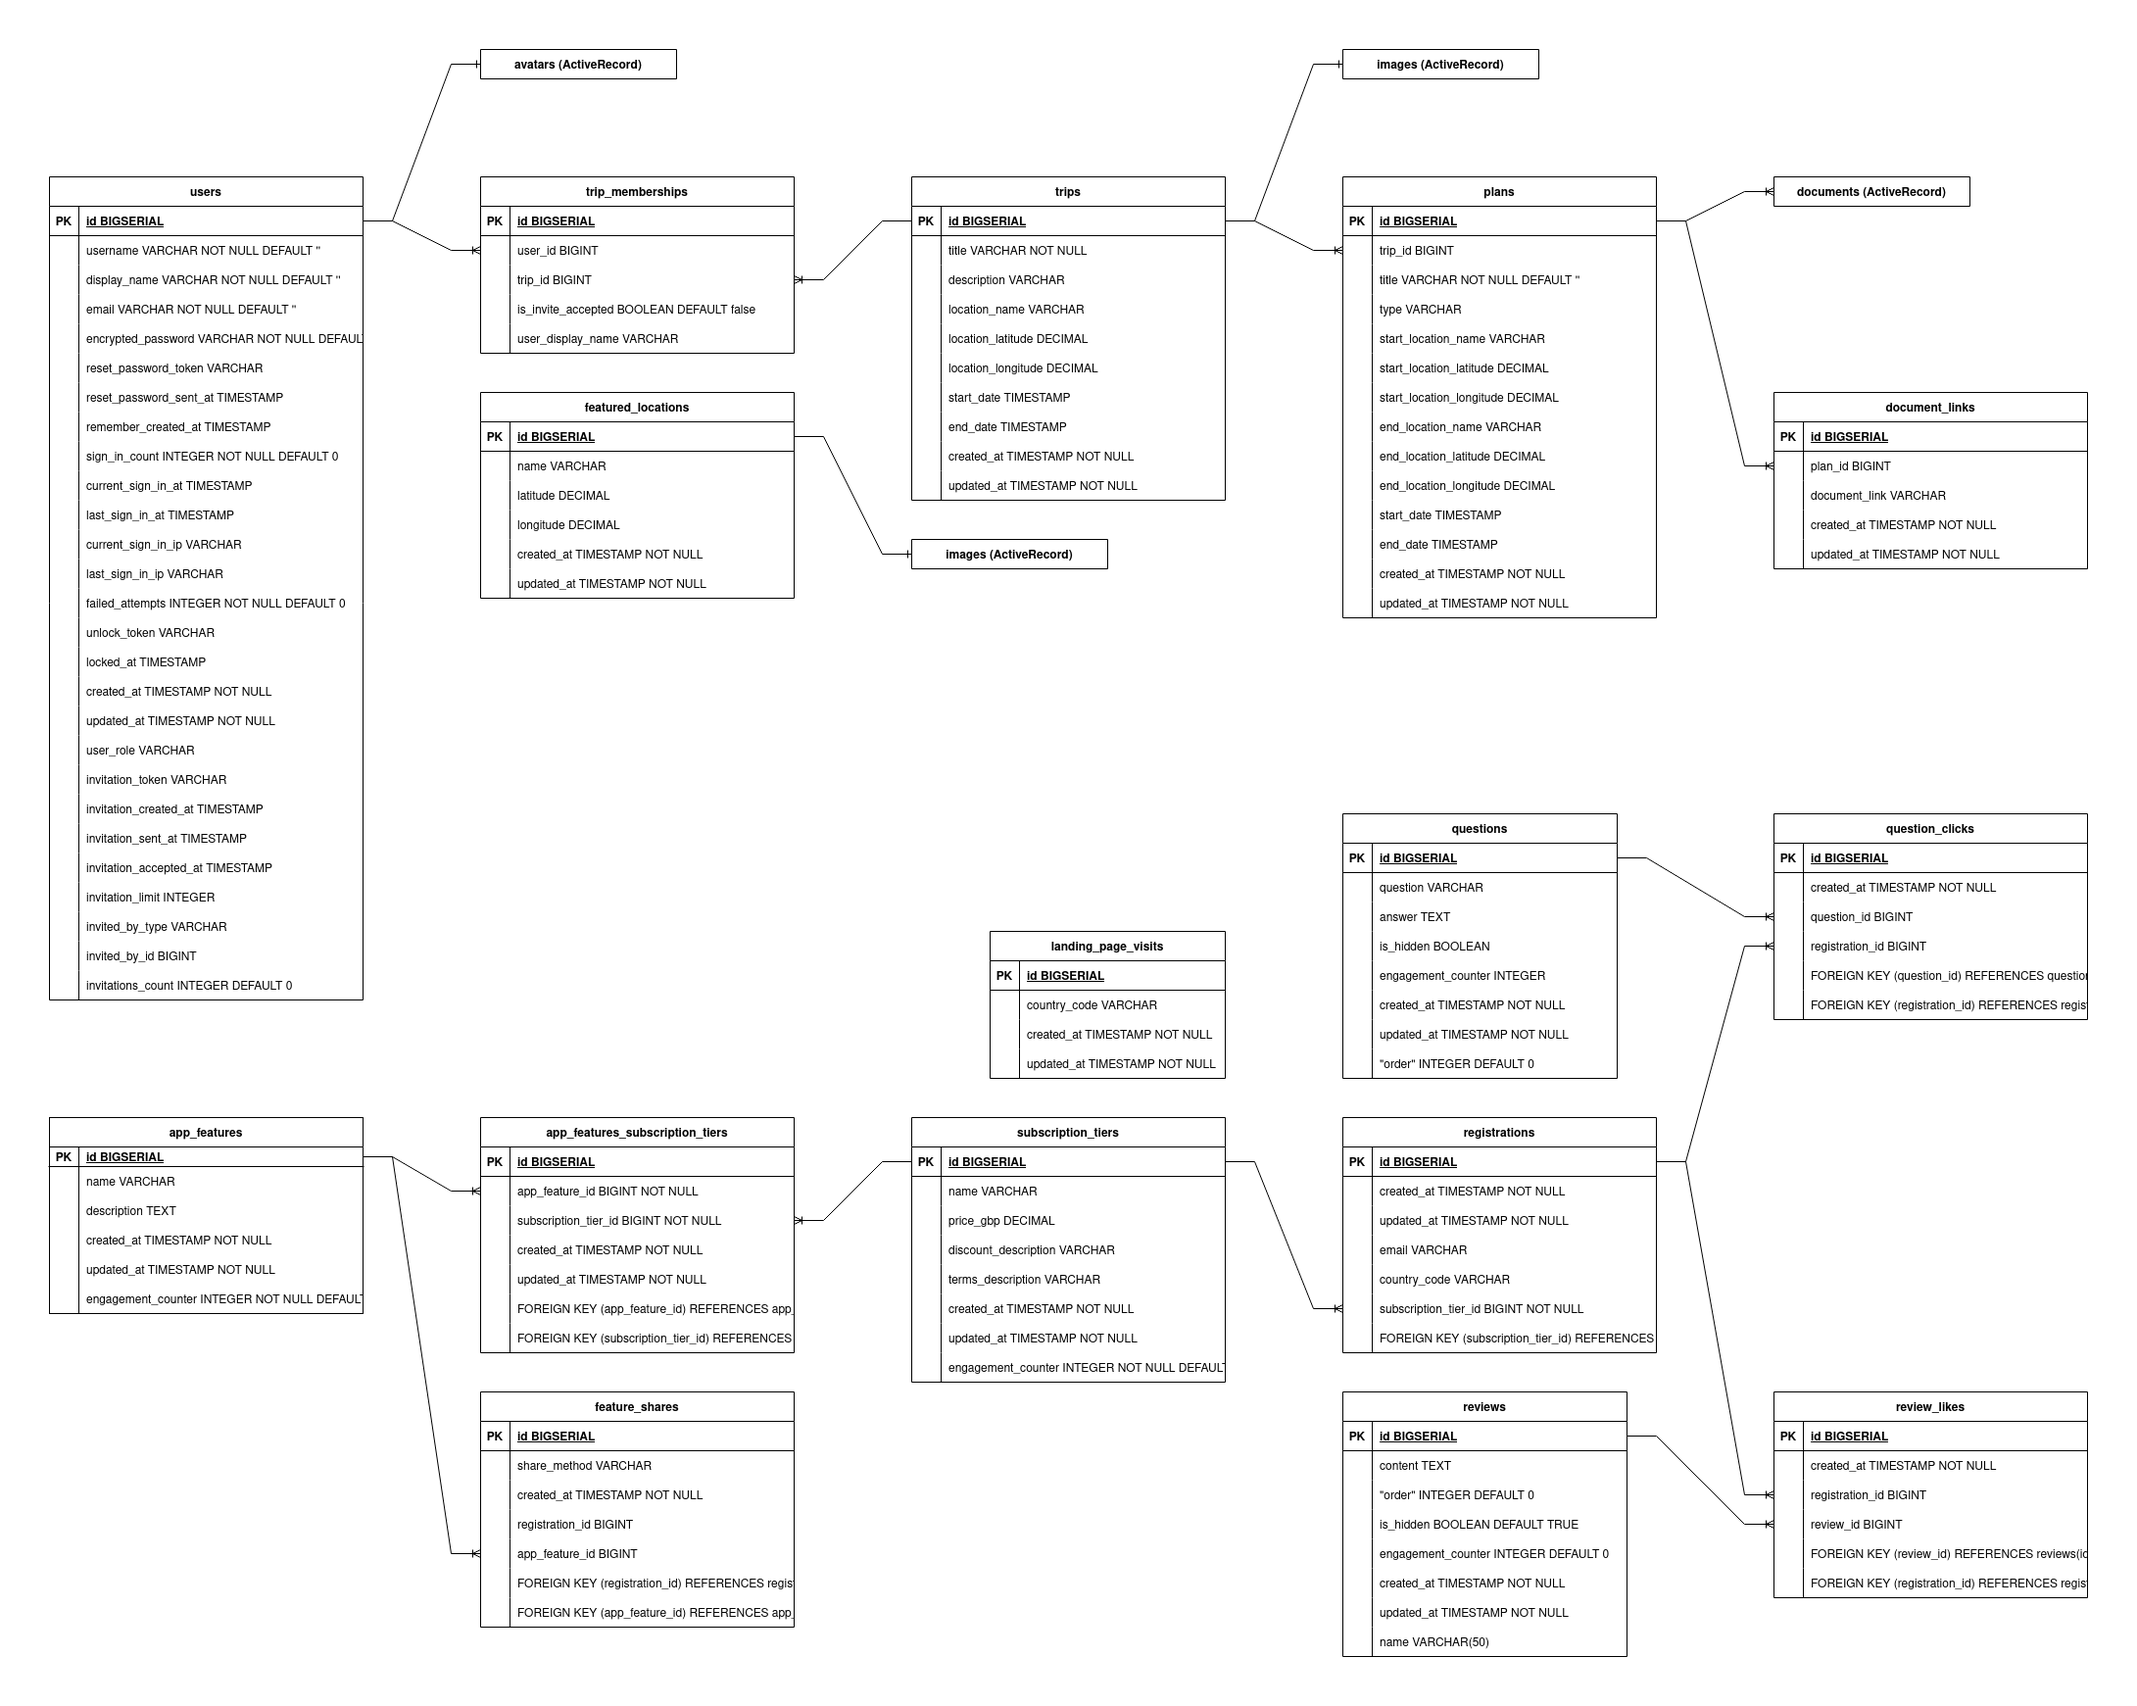
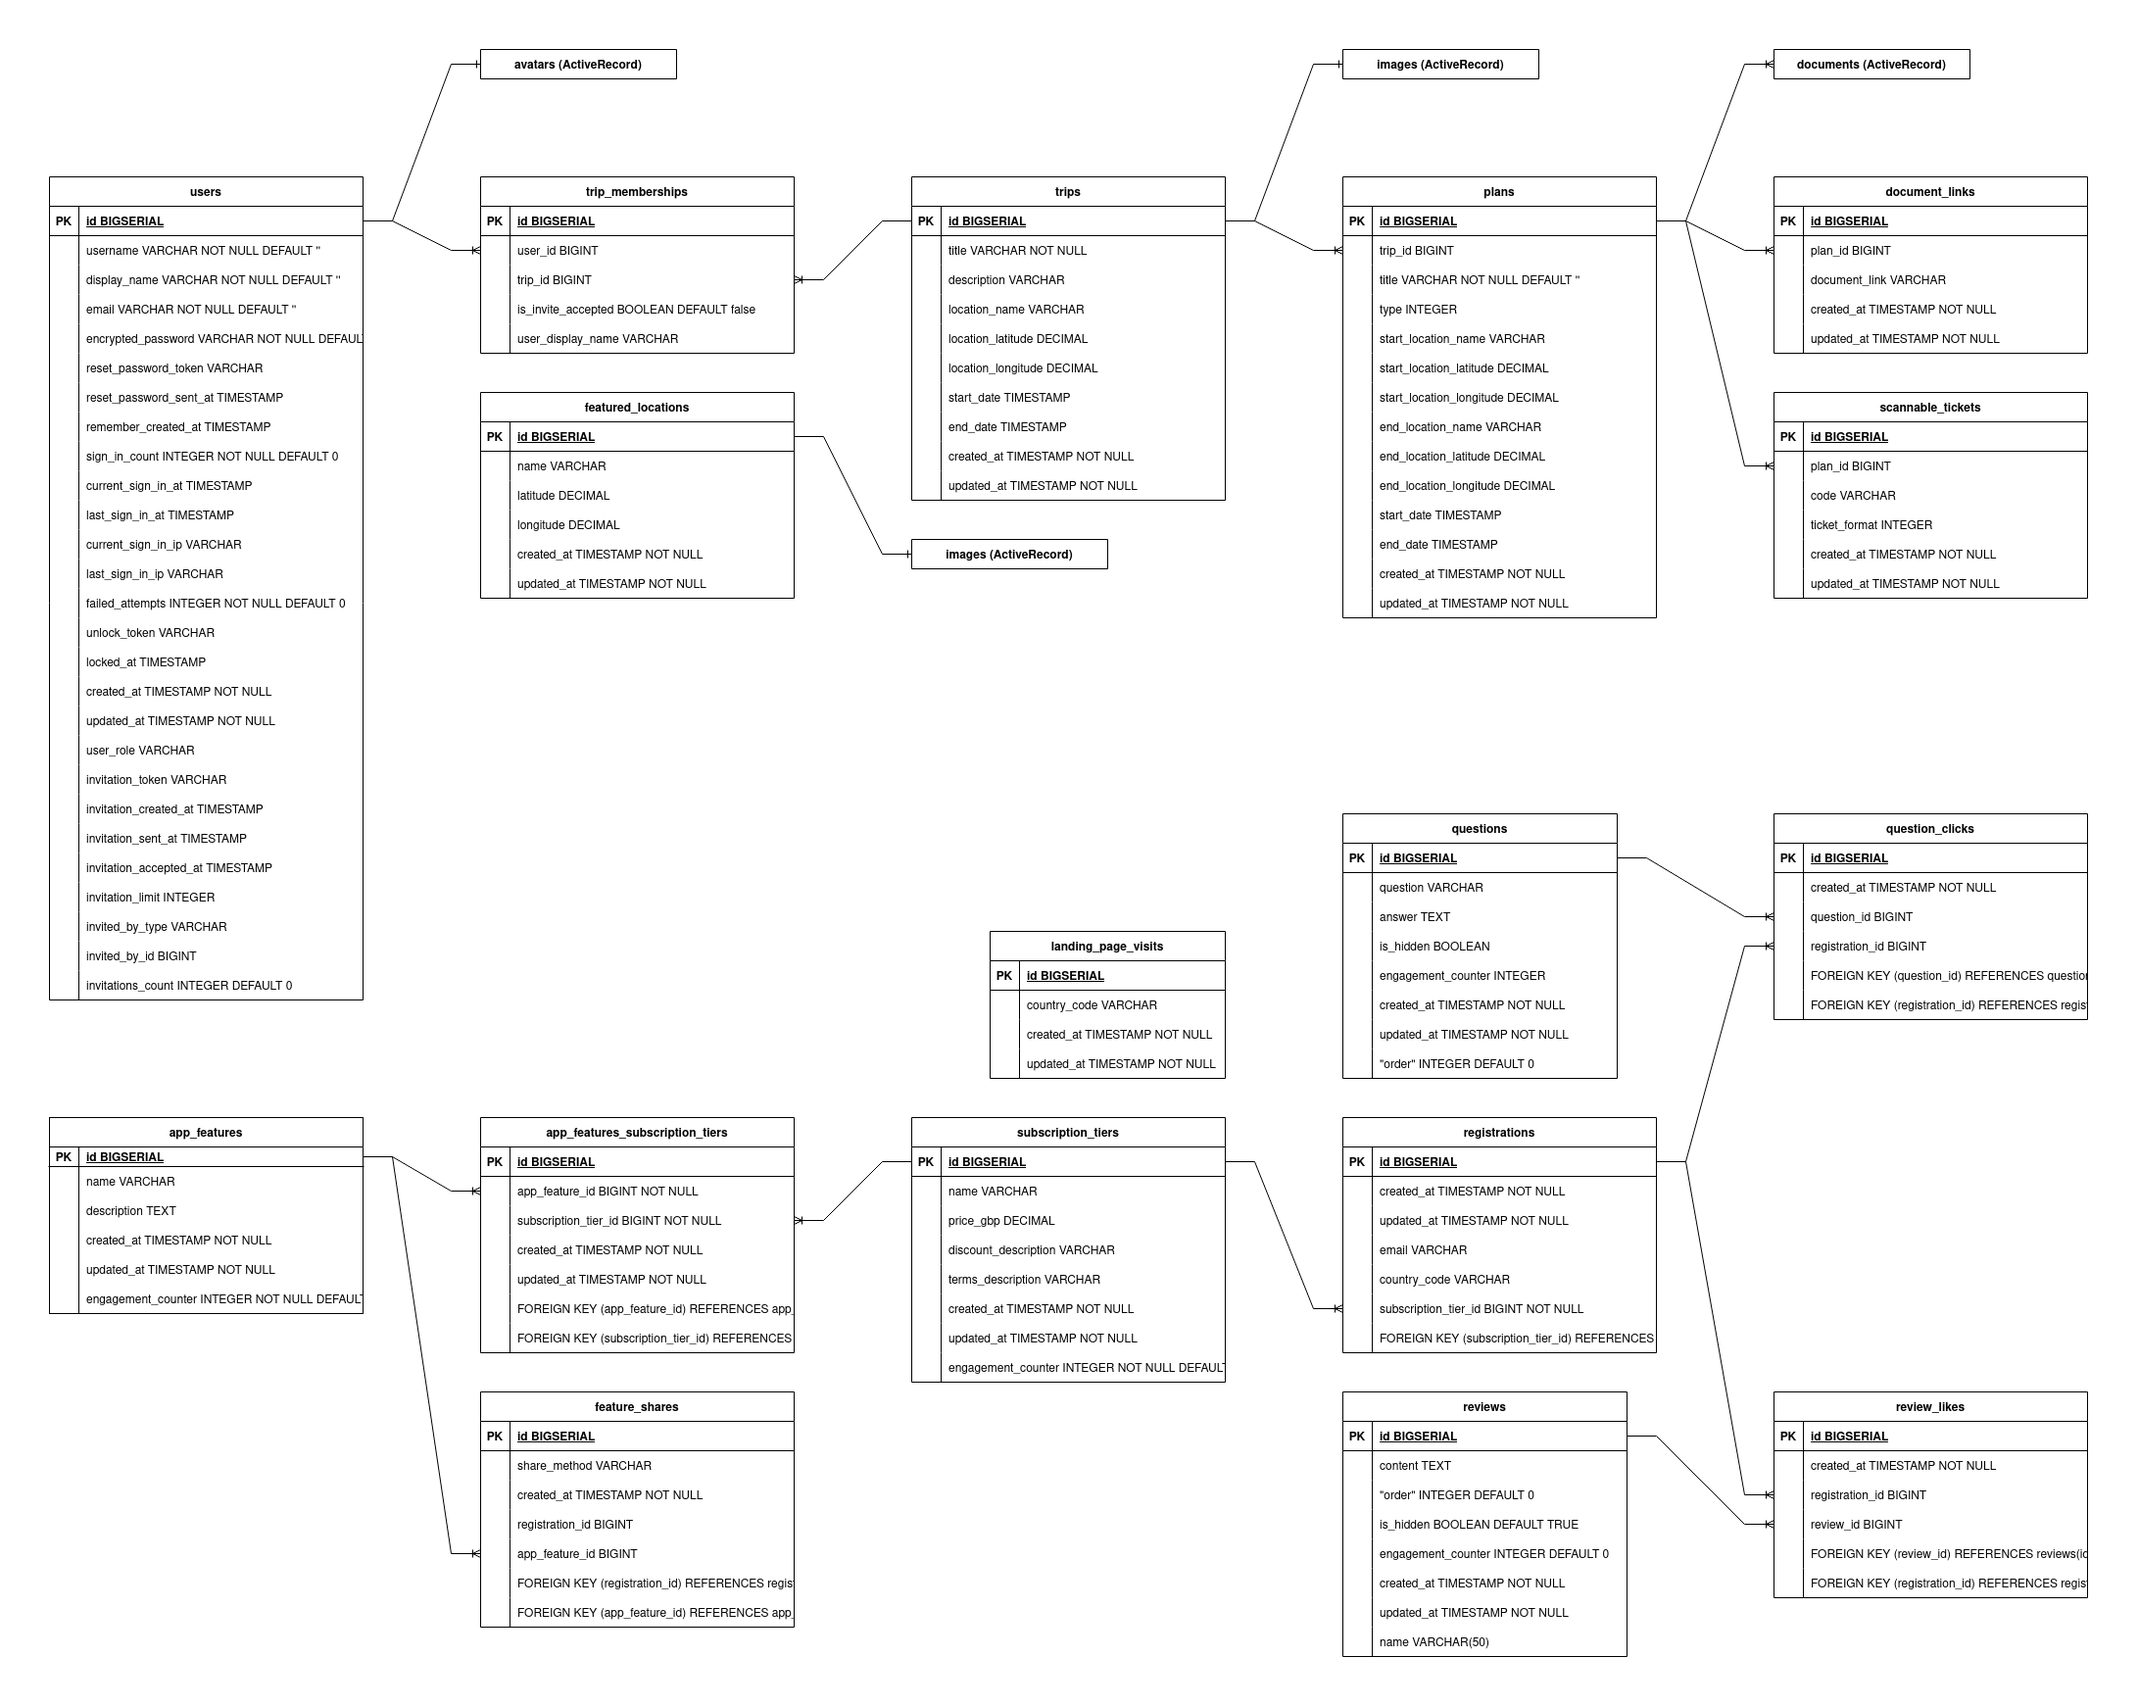
fix: implemented PR feedback

diff --git a/db/schema.rb b/db/schema.rb
@@ -10,7 +10,7 @@
 #
 # It's strongly recommended that you check this file into your version control system.
 
-ActiveRecord::Schema[7.0].define(version: 2025_03_04_233938) do
+ActiveRecord::Schema[7.0].define(version: 2025_03_05_124921) do
   # These are extensions that must be enabled in order to support this database
   enable_extension "plpgsql"
 
@@ -74,14 +74,6 @@ ActiveRecord::Schema[7.0].define(version: 2025_03_04_233938) do
     t.index ["priority", "run_at"], name: "delayed_jobs_priority"
   end
 
-  create_table "document_links", force: :cascade do |t|
-    t.bigint "plan_id"
-    t.string "document_link", null: false
-    t.datetime "created_at", null: false
-    t.datetime "updated_at", null: false
-    t.index ["plan_id"], name: "index_document_links_on_plan_id"
-  end
-
   create_table "feature_shares", force: :cascade do |t|
     t.string "share_method"
     t.datetime "created_at", null: false
@@ -108,7 +100,7 @@ ActiveRecord::Schema[7.0].define(version: 2025_03_04_233938) do
   create_table "plans", force: :cascade do |t|
     t.bigint "trip_id"
     t.string "title", null: false
-    t.string "type", null: false
+    t.integer "type", null: false
     t.string "start_location_name"
     t.decimal "start_location_latitude"
     t.decimal "start_location_longitude"
@@ -167,6 +159,15 @@ ActiveRecord::Schema[7.0].define(version: 2025_03_04_233938) do
     t.string "name", limit: 50
   end
 
+  create_table "scannable_tickets", force: :cascade do |t|
+    t.bigint "plan_id"
+    t.string "code", null: false
+    t.integer "ticket_format", null: false
+    t.datetime "created_at", null: false
+    t.datetime "updated_at", null: false
+    t.index ["plan_id"], name: "index_scannable_tickets_on_plan_id"
+  end
+
   create_table "sessions", force: :cascade do |t|
     t.string "session_id", null: false
     t.text "data"
@@ -184,6 +185,14 @@ ActiveRecord::Schema[7.0].define(version: 2025_03_04_233938) do
     t.datetime "created_at", null: false
     t.datetime "updated_at", null: false
     t.integer "engagement_counter", default: 0, null: false
+  end
+
+  create_table "ticket_links", force: :cascade do |t|
+    t.bigint "plan_id"
+    t.string "ticket_link", null: false
+    t.datetime "created_at", null: false
+    t.datetime "updated_at", null: false
+    t.index ["plan_id"], name: "index_ticket_links_on_plan_id"
   end
 
   create_table "trip_memberships", force: :cascade do |t|

diff --git a/spec/factories/scannable_tickets.rb b/spec/factories/scannable_tickets.rb
@@ -2,21 +2,24 @@
 
 # == Schema Information
 #
-# Table name: ticket_links
+# Table name: scannable_tickets
 #
 #  id            :bigint           not null, primary key
-#  ticket_link :string           not null
+#  code          :string           not null
+#  ticket_format :integer          not null
 #  created_at    :datetime         not null
 #  updated_at    :datetime         not null
 #  plan_id       :bigint
 #
 # Indexes
 #
-#  index_ticket_links_on_plan_id  (plan_id)
+#  index_scannable_tickets_on_plan_id  (plan_id)
 #
 FactoryBot.define do
-  factory :ticket_link do
-    ticket_link { "https://example.com" }
+  factory :scannable_ticket do
+    code { "Mock ticket code" }
+    ticket_format { :qr }
+
     association :plan
   end
 end

diff --git a/app/models/plan.rb b/app/models/plan.rb
@@ -14,7 +14,7 @@
 #  start_location_longitude :decimal(, )
 #  start_location_name      :string
 #  title                    :string           not null
-#  type                     :string           not null
+#  type                     :integer          not null
 #  created_at               :datetime         not null
 #  updated_at               :datetime         not null
 #  trip_id                  :bigint
@@ -26,5 +26,10 @@
 class Plan < ApplicationRecord
   belongs_to :trip
   has_many_attached :documents
-  has_many :document_links, dependent: :destroy
+  has_many :ticket_links, dependent: :destroy
+  has_many :scannable_tickets, dependent: :destroy
+
+  enum type: [:sightseeing]
+
+  validates :type, inclusion: { in: types }
 end

diff --git a/spec/factories/plans.rb b/spec/factories/plans.rb
@@ -14,7 +14,7 @@
 #  start_location_longitude :decimal(, )
 #  start_location_name      :string
 #  title                    :string           not null
-#  type                     :string           not null
+#  type                     :integer          not null
 #  created_at               :datetime         not null
 #  updated_at               :datetime         not null
 #  trip_id                  :bigint
@@ -29,7 +29,7 @@ FactoryBot.define do
   # and specify the dates when using the factory.
   factory :plan do
     title { "Mock Plan" }
-    type { "Hiking" }
+    type { :sightseeing }
     start_location_name { "Edale, Peak District, UK" }
     start_location_latitude { 53.3673 }
     start_location_longitude { 1.8158 }

diff --git a/app/models/scannable_ticket.rb b/app/models/scannable_ticket.rb
@@ -1,0 +1,24 @@
+# frozen_string_literal: true
+
+# == Schema Information
+#
+# Table name: scannable_tickets
+#
+#  id            :bigint           not null, primary key
+#  code          :string           not null
+#  ticket_format :integer          not null
+#  created_at    :datetime         not null
+#  updated_at    :datetime         not null
+#  plan_id       :bigint
+#
+# Indexes
+#
+#  index_scannable_tickets_on_plan_id  (plan_id)
+#
+class ScannableTicket < ApplicationRecord
+  belongs_to :plan
+
+  enum ticket_format: [:qr, :code_39, :code_128]
+
+  validates :ticket_format, inclusion: { in: ticket_formats }
+end

diff --git a/app/models/ticket_link.rb b/app/models/ticket_link.rb
@@ -1,0 +1,19 @@
+# frozen_string_literal: true
+
+# == Schema Information
+#
+# Table name: ticket_links
+#
+#  id          :bigint           not null, primary key
+#  ticket_link :string           not null
+#  created_at  :datetime         not null
+#  updated_at  :datetime         not null
+#  plan_id     :bigint
+#
+# Indexes
+#
+#  index_ticket_links_on_plan_id  (plan_id)
+#
+class TicketLink < ApplicationRecord
+  belongs_to :plan
+end

diff --git a/db/migrate/20250303185627_create_plans.rb b/db/migrate/20250303185627_create_plans.rb
@@ -3,7 +3,7 @@ class CreatePlans < ActiveRecord::Migration[7.0]
     create_table :plans do |t|
       t.belongs_to :trip
       t.string :title, null: false
-      t.string :type, null: false
+      t.integer :type, null: false
       t.string :start_location_name
       t.decimal :start_location_latitude
       t.decimal :start_location_longitude

diff --git a/app/models/trip.rb b/app/models/trip.rb
@@ -19,7 +19,7 @@ class Trip < ApplicationRecord
   has_one_attached :image
 
   has_many :plans, dependent: :destroy
-  has_many :document_links, through: :plans
+  has_many :ticket_links, through: :plans
   has_many :trip_memberships, dependent: :destroy
   has_many :users, through: :trip_memberships
 end

diff --git a/db/migrate/20250305124921_create_scannable_tickets.rb b/db/migrate/20250305124921_create_scannable_tickets.rb
@@ -1,0 +1,11 @@
+class CreateScannableTickets < ActiveRecord::Migration[7.0]
+  def change
+    create_table :scannable_tickets do |t|
+      t.belongs_to :plan
+      t.string :code, null: false
+      t.integer :ticket_format, null: false
+
+      t.timestamps
+    end
+  end
+end

diff --git a/db/migrate/20250303185712_create_ticket_links.rb b/db/migrate/20250303185712_create_ticket_links.rb
@@ -1,0 +1,10 @@
+class CreateTicketLinks < ActiveRecord::Migration[7.0]
+  def change
+    create_table :ticket_links do |t|
+      t.belongs_to :plan
+      t.string :ticket_link, null: false
+
+      t.timestamps
+    end
+  end
+end
